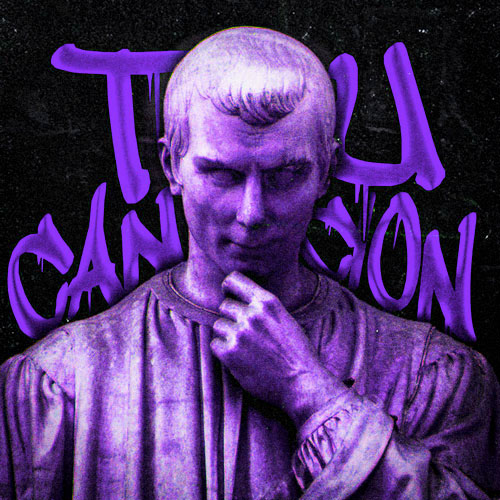
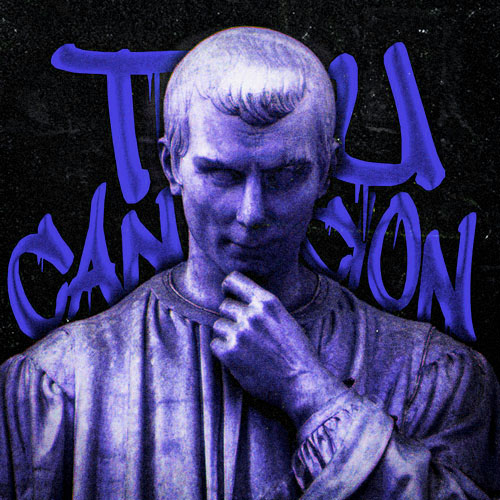
tienda responsive terminado

diff --git a/scss/main.scss b/scss/main.scss
@@ -315,7 +315,7 @@ section[id] {
         
         form {
             width: 80%;
-            max-width: 1050px;
+            max-width: 900px;
             display: grid;
             grid-template-columns: 1fr 1fr;
             gap: 14px;
@@ -724,8 +724,9 @@ section[id] {
 
     // Inicia css para tienda
     .tiendaContainer{
-        margin: 40px 0px 80px 0px;
+        margin: 40px auto 80px auto;
         width: 100%;
+        max-width: 1500px;
         display: flex;
         justify-content: center;
 
@@ -813,23 +814,23 @@ section[id] {
                     padding-right: 0px;
                     padding-top: 90px;
                     padding-bottom: 90px;
-                    background: linear-gradient(to right, rgba(117, 44, 172, 0.040), transparent);
+                    background: linear-gradient(to right, rgba(42, 45, 250, 0.04), transparent);
 
                     .titleh1, .p {
                         text-align: left;
                     }
                     .titleh1 {
-                        color: rgb(117, 44, 172);
+                        color: rgb(65, 93, 216);
                     }
                     .botones {
                         a {
                             margin: 0;
-                            background-color: rgb(117, 44, 172);
+                            background-color: rgb(56, 102, 255);
                         }
                     }
                 }
                 .multimedia {
-                    box-shadow: 0px 2px 20px -4px rgba(163, 46, 252, 0.2);
+                    box-shadow: 0px 2px 20px -4px rgba(35, 105, 255, 0.2);
                     position: relative;
                     .position {
                         position: absolute;
@@ -961,8 +962,61 @@ section[id] {
             margin: 0px 25px;
         }
     }
-
     /* termina responsive miembros */
+
+
+    /* inicia responsive tienda */
+    .tiendaContainer {
+        width: 70%;
+        .tiendaInfo {
+            flex-direction: column-reverse !important;
+            .multimedia {
+                width: 100%;
+            }
+            .text {
+                width: 100%;
+                margin: 0;
+                padding: 0 15px;
+                align-items: center;
+                background: linear-gradient(to bottom, rgba(232 ,69 ,68, 0.040), transparent);
+
+                .p, .titleh1 {
+                    text-align: center;
+                    margin: 15px 0px 0px 0px;
+                    padding: 0;
+                }
+                .botones {
+                    a {
+                        margin: 0px 0px 12px 0px;
+                    }
+                    flex-direction: column;
+                    align-content: center;
+                }
+            }
+        }
+        &:nth-child(2) {
+            .tiendaInfo {
+                .text {
+                    align-items: center;
+                    padding: 0 15px;
+
+                    background: linear-gradient(to bottom, rgba(42, 45, 250, 0.04), transparent);
+
+                    .p, .titleh1 {
+                        text-align: center;
+                        margin: 15px 0px 0px 0px;
+                    }
+                }
+                .multimedia {
+                    height: 50vh;
+                }
+            }
+        }
+    }
+
+    /* termina responsive tienda */
+
+
 }
 
 @media (max-width:660px) {
@@ -1104,6 +1158,20 @@ section[id] {
     .titleh1 {
         font-size: 2.5em;
     }
+
+        /* inicia responsive tienda */
+        .tiendaContainer {
+            width: 95%;
+            .tiendaInfo {
+                .text {
+                    .p, a {
+                        font-size: 1.2em;
+                    }
+                }
+            }
+        }
+    
+        /* termina responsive tienda */
 }
 
 @media (max-width:430px) {

diff --git a/css/main.css b/css/main.css
@@ -516,7 +516,7 @@ section[id] {
 }
 #formContacto form {
   width: 80%;
-  max-width: 1050px;
+  max-width: 900px;
   display: grid;
   grid-template-columns: 1fr 1fr;
   gap: 14px;
@@ -887,8 +887,9 @@ section[id] {
 }
 
 .tiendaContainer {
-  margin: 40px 0px 80px 0px;
+  margin: 40px auto 80px auto;
   width: 100%;
+  max-width: 1500px;
   display: flex;
   justify-content: center;
 }
@@ -966,20 +967,20 @@ section[id] {
   padding-right: 0px;
   padding-top: 90px;
   padding-bottom: 90px;
-  background: linear-gradient(to right, rgba(117, 44, 172, 0.04), transparent);
+  background: linear-gradient(to right, rgba(42, 45, 250, 0.04), transparent);
 }
 .tiendaContainer:nth-child(2) .tiendaInfo .text .titleh1, .tiendaContainer:nth-child(2) .tiendaInfo .text .p {
   text-align: left;
 }
 .tiendaContainer:nth-child(2) .tiendaInfo .text .titleh1 {
-  color: rgb(117, 44, 172);
+  color: rgb(65, 93, 216);
 }
 .tiendaContainer:nth-child(2) .tiendaInfo .text .botones a {
   margin: 0;
-  background-color: rgb(117, 44, 172);
+  background-color: rgb(56, 102, 255);
 }
 .tiendaContainer:nth-child(2) .tiendaInfo .multimedia {
-  box-shadow: 0px 2px 20px -4px rgba(163, 46, 252, 0.2);
+  box-shadow: 0px 2px 20px -4px rgba(35, 105, 255, 0.2);
   position: relative;
 }
 .tiendaContainer:nth-child(2) .tiendaInfo .multimedia .position {
@@ -1083,6 +1084,48 @@ section[id] {
     margin: 0px 25px;
   }
   /* termina responsive miembros */
+  /* inicia responsive tienda */
+  .tiendaContainer {
+    width: 70%;
+  }
+  .tiendaContainer .tiendaInfo {
+    flex-direction: column-reverse !important;
+  }
+  .tiendaContainer .tiendaInfo .multimedia {
+    width: 100%;
+  }
+  .tiendaContainer .tiendaInfo .text {
+    width: 100%;
+    margin: 0;
+    padding: 0 15px;
+    align-items: center;
+    background: linear-gradient(to bottom, rgba(232, 69, 68, 0.04), transparent);
+  }
+  .tiendaContainer .tiendaInfo .text .p, .tiendaContainer .tiendaInfo .text .titleh1 {
+    text-align: center;
+    margin: 15px 0px 0px 0px;
+    padding: 0;
+  }
+  .tiendaContainer .tiendaInfo .text .botones {
+    flex-direction: column;
+    align-content: center;
+  }
+  .tiendaContainer .tiendaInfo .text .botones a {
+    margin: 0px 0px 12px 0px;
+  }
+  .tiendaContainer:nth-child(2) .tiendaInfo .text {
+    align-items: center;
+    padding: 0 15px;
+    background: linear-gradient(to bottom, rgba(42, 45, 250, 0.04), transparent);
+  }
+  .tiendaContainer:nth-child(2) .tiendaInfo .text .p, .tiendaContainer:nth-child(2) .tiendaInfo .text .titleh1 {
+    text-align: center;
+    margin: 15px 0px 0px 0px;
+  }
+  .tiendaContainer:nth-child(2) .tiendaInfo .multimedia {
+    height: 50vh;
+  }
+  /* termina responsive tienda */
 }
 @media (max-width: 660px) {
   .titleh1 {
@@ -1183,6 +1226,14 @@ section[id] {
   .titleh1 {
     font-size: 2.5em;
   }
+  /* inicia responsive tienda */
+  .tiendaContainer {
+    width: 95%;
+  }
+  .tiendaContainer .tiendaInfo .text .p, .tiendaContainer .tiendaInfo .text a {
+    font-size: 1.2em;
+  }
+  /* termina responsive tienda */
 }
 @media (max-width: 430px) {
   /* inicia responsive miembros */

diff --git a/index.html b/index.html
@@ -37,10 +37,10 @@
                     <a href="page/temas.html">Temas</a>
                 </li>
                 <li>
-                    <a href="page/blog.html">Blog</a>
+                    <a href="page/miembros.html">Miembros</a>
                 </li>
                 <li>
-                    <a href="page/miembros.html">Miembros</a>
+                    <a href="page/tienda.html">Tienda</a>
                 </li>
                 <li>
                     <a href="page/contacto.html">Contacto</a>
@@ -75,10 +75,10 @@
                 <a href="page/temas.html">Temas</a>
             </li>
             <li>
-                <a href="page/blog.html">Blog</a>
+                <a href="page/miembros.html">Miembros</a>
             </li>
             <li>
-                <a href="page/miembros.html">Miembros</a>
+                <a href="page/tienda.html">Tienda</a>
             </li>
             <li>
                 <a href="page/contacto.html">Contacto</a>

diff --git a/page/contacto.html b/page/contacto.html
@@ -39,10 +39,10 @@
                 <a href="../page/temas.html">Temas</a>
             </li>
             <li>
-                <a href="../page/blog.html">Blog</a>
+                <a href="../page/miembros.html">Miembros</a>
             </li>
             <li>
-                <a href="../page/miembros.html">Miembros</a>
+                <a href="../page/tienda.html">Tienda</a>
             </li>
             <li id="navActive">
                 <a>Contacto</a>

diff --git a/page/miembros.html b/page/miembros.html
@@ -38,11 +38,11 @@
             <li>
                 <a href="../page/temas.html">Temas</a>
             </li>
-            <li>
-                <a href="../page/blog.html">Blog</a>
-            </li>
             <li id="navActive">
                 <a>Miembros</a>
+            </li>
+            <li>
+                <a href="../page/tienda.html">Tienda</a>
             </li>
             <li>
                 <a href="../page/contacto.html">Contacto</a>

diff --git a/page/temas.html b/page/temas.html
@@ -39,10 +39,10 @@
                 <a>Temas</a>
             </li>
             <li>
-                <a href="../page/blog.html">Blog</a>
+                <a href="../page/miembros.html">Miembros</a>
             </li>
             <li>
-                <a href="../page/miembros.html">Miembros</a>
+                <a href="../page/tienda.html">Tienda</a>
             </li>
             <li>
                 <a href="../page/contacto.html">Contacto</a>

diff --git a/page/tienda.html b/page/tienda.html
@@ -38,11 +38,11 @@
             <li>
                 <a href="../page/temas.html">Temas</a>
             </li>
-            <li id="navActive">
-                <a>Blog</a>
-            </li>
             <li>
                 <a href="../page/miembros.html">Miembros</a>
+            </li>
+            <li id="navActive">
+                <a>Tienda</a>
             </li>
             <li>
                 <a href="../page/contacto.html">Contacto</a>
